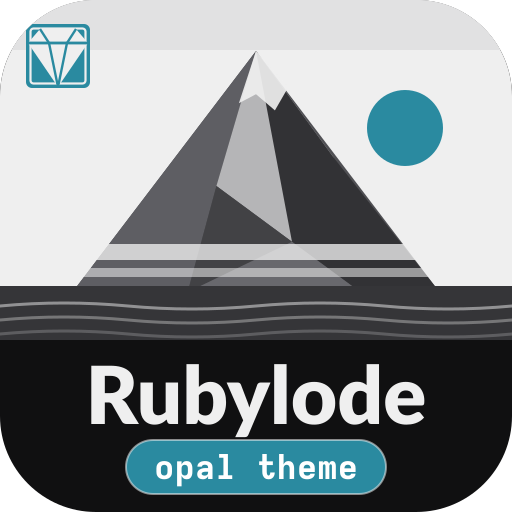
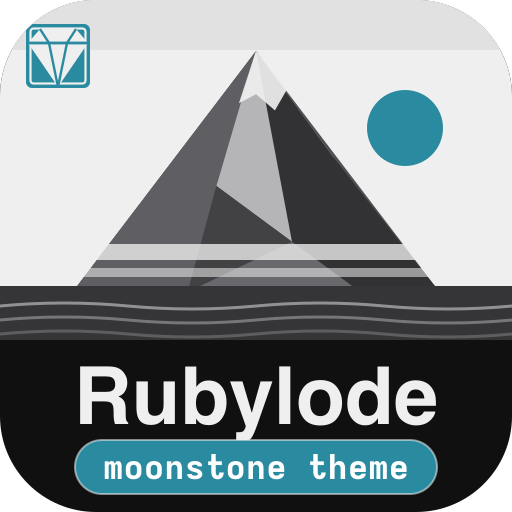
feat!: rename the theme from Opal to Moonstone
Redmine.org already lists a theme called Opale, so the two names clashed.
The theme folder is now moonstone and the release is moonstone-2.0.0.zip.
The look is unchanged.

Changed region(s): [[0.125, 0.6875, 0.875, 0.9688]]

diff --git a/moonstone/stylesheets/tokens.css b/moonstone/stylesheets/tokens.css
@@ -1,9 +1,9 @@
-/* Opal, a theme for Redmine 7
+/* Moonstone, a theme for Redmine 7
  * Copyright (C) 2026  Nick Gorbikoff
  * GNU General Public License, version 2 or later. See the LICENSE file.
  * Generated from the shared base of the Rubylode themes: a change made here is overwritten by the next build. */
 
-/* Opal's tokens, light values. The dark values of the same names are in dark.css. */
+/* Moonstone's tokens, light values. The dark values of the same names are in dark.css. */
 :root {
   /* Surfaces: a milky, cool off-white page with white panels on it. */
   --theme-page: #f4f6f8;
@@ -34,7 +34,7 @@
   --theme-accent-9: #0b3540;
   --theme-accent-1-rgb: 217, 238, 241;
 
-  /* The opal shimmer: a faint lilac and peach, used sparingly (the header, focus rings, the primary button). */
+  /* The moonstone shimmer: a faint lilac and peach, used sparingly (the header, focus rings, the primary button). */
   --theme-secondary: #b9a7e0;
   --theme-secondary-pale: #efeafa;
   --theme-tertiary: #f2b89c;
@@ -61,7 +61,7 @@
   --theme-header-line: rgba(27, 107, 128, 0.16);
   --theme-header-field-background: rgba(255, 255, 255, 0.72);
   --theme-header-field-border: #75828f;
-  --theme-mark-image: url("../images/opal-mark.svg");
+  --theme-mark-image: url("../images/moonstone-mark.svg");
 
   /* The project sidebar, in the sidebar layout only ("layout": "sidebar" in theme.json). */
   --theme-sidebar-width: 240px;

diff --git a/moonstone/stylesheets/application.css b/moonstone/stylesheets/application.css
@@ -1,4 +1,4 @@
-/* Opal, a theme for Redmine 7
+/* Moonstone, a theme for Redmine 7
  * Copyright (C) 2026  Nick Gorbikoff
  *
  * This program is free software; you can redistribute it and/or
@@ -16,7 +16,7 @@
  * Foundation, Inc., 51 Franklin Street, Fifth Floor, Boston, MA  02110-1301, USA. */
 
 /* Redmine loads a theme's application.css in place of its own, and its responsive.css in place of Redmine's phone rules.
- * Opal keeps both of Redmine's files and adds its own after them:
+ * Moonstone keeps both of Redmine's files and adds its own after them:
  *
  *   application.css    Redmine's stylesheet, then fonts.css (the bundled Noto Sans and Noto Sans Mono, from ../fonts), then
  *                      tokens.css (every colour, corner, font and size, and Redmine's own palette pointed at them)

diff --git a/moonstone/stylesheets/dark.css b/moonstone/stylesheets/dark.css
@@ -1,4 +1,4 @@
-/* Opal, a theme for Redmine 7
+/* Moonstone, a theme for Redmine 7
  * Copyright (C) 2026  Nick Gorbikoff
  * GNU General Public License, version 2 or later. See the LICENSE file.
  * Generated from the shared base of the Rubylode themes: a change made here is overwritten by the next build. */
@@ -10,7 +10,7 @@
     color-scheme: dark;
   }
 
-  /* Opal's tokens, dark values: a deep slate page, slightly lighter panels, light ink, the teal lifted so it reads on dark, and
+  /* Moonstone's tokens, dark values: a deep slate page, slightly lighter panels, light ink, the teal lifted so it reads on dark, and
    * the header wash in deep teal, plum and rose. A name not set here keeps its light value from tokens.css. */
   :root {
     --theme-page: #11171c;

diff --git a/moonstone/javascripts/theme.js b/moonstone/javascripts/theme.js
@@ -1,4 +1,4 @@
-/* Opal, a theme for Redmine 7
+/* Moonstone, a theme for Redmine 7
  * Copyright (C) 2026  Nick Gorbikoff
  * GNU General Public License, version 2 or later. See the LICENSE file.
  * Generated from the shared base of the Rubylode themes: a change made here is overwritten by the next build. */

diff --git a/moonstone/stylesheets/fonts.css b/moonstone/stylesheets/fonts.css
@@ -1,4 +1,4 @@
-/* Opal, a theme for Redmine 7
+/* Moonstone, a theme for Redmine 7
  * Copyright (C) 2026  Nick Gorbikoff
  * GNU General Public License, version 2 or later. See the LICENSE file.
  * Generated from the shared base of the Rubylode themes: a change made here is overwritten by the next build. */

diff --git a/moonstone/stylesheets/plugins.css b/moonstone/stylesheets/plugins.css
@@ -1,4 +1,4 @@
-/* Opal, a theme for Redmine 7
+/* Moonstone, a theme for Redmine 7
  * Copyright (C) 2026  Nick Gorbikoff
  * GNU General Public License, version 2 or later. See the LICENSE file.
  * Generated from the shared base of the Rubylode themes: a change made here is overwritten by the next build. */

diff --git a/moonstone/stylesheets/structure.css b/moonstone/stylesheets/structure.css
@@ -1,4 +1,4 @@
-/* Opal, a theme for Redmine 7
+/* Moonstone, a theme for Redmine 7
  * Copyright (C) 2026  Nick Gorbikoff
  * GNU General Public License, version 2 or later. See the LICENSE file.
  * Generated from the shared base of the Rubylode themes: a change made here is overwritten by the next build. */

diff --git a/moonstone/stylesheets/responsive.css b/moonstone/stylesheets/responsive.css
@@ -1,4 +1,4 @@
-/* Opal, a theme for Redmine 7: the phone rules and the theme's layers
+/* Moonstone, a theme for Redmine 7: the phone rules and the theme's layers
  * Copyright (C) 2026  Nick Gorbikoff
  *
  * This program is free software; you can redistribute it and/or

diff --git a/README.md b/README.md
@@ -1,6 +1,6 @@
-# Rubylode Opal for Redmine
+# Rubylode Moonstone for Redmine
 
-<p><img src="docs/thumbnail.png" alt="Rubylode Opal theme" width="160"></p>
+<p><img src="docs/thumbnail.png" alt="Rubylode Moonstone theme" width="160"></p>
 
 A light theme for Redmine 7 and up: white panels on an off-white page, a blue-teal primary colour, and coloured status and priority chips.
 
@@ -9,7 +9,7 @@ Redmine itself. The script only reads the page: it puts a status dot beside the 
 and gives the top bar a shadow once the page scrolls. Without it the theme still works. The dark set follows your system setting
 (see [Dark mode](#dark-mode)).
 
-![A walk through Rubylode Opal: the project, the issue list, an issue and the new issue form](docs/demo/walkthrough-light.gif)
+![A walk through Rubylode Moonstone: the project, the issue list, an issue and the new issue form](docs/demo/walkthrough-light.gif)
 
 | | |
 |---|---|
@@ -20,7 +20,7 @@ and gives the top bar a shadow once the page scrolls. Without it the theme still
 
 Dark mode:
 
-![A walk through Rubylode Opal in dark mode](docs/demo/walkthrough-dark.gif)
+![A walk through Rubylode Moonstone in dark mode](docs/demo/walkthrough-dark.gif)
 
 | | |
 |---|---|
@@ -47,7 +47,7 @@ The screenshots come from the demo Redmine in this repository; the people, proje
 
 ## What it looks like
 
-- A two-row header. The top bar has a teal-to-lilac-to-peach wash, the Opal mark, the global links, the search and project
+- A two-row header. The top bar has a teal-to-lilac-to-peach wash, the Moonstone mark, the global links, the search and project
   switcher as rounded fields, and your avatar. Below it, a white bar holds the project name, the project tabs (the current one
   underlined in the same wash) and the "+" menu.
 - A New issue button beside the search, when the Rubylode New issue button plugin is installed.
@@ -62,13 +62,13 @@ The screenshots come from the demo Redmine in this repository; the people, proje
 
 ## Install
 
-1. Download the zip attached to the latest release (the Releases page of this repository) and unzip it inside the `themes` folder of your Redmine, so that `themes/opal/stylesheets/application.css` exists. Or clone this repository and copy (or link) its `opal` folder into `themes/`.
+1. Download the zip attached to the latest release (the Releases page of this repository) and unzip it inside the `themes` folder of your Redmine, so that `themes/moonstone/stylesheets/application.css` exists. Or clone this repository and copy (or link) its `moonstone` folder into `themes/`.
 2. Restart Redmine.
-3. In Administration, Settings, Display, choose **Opal** as the theme and save.
+3. In Administration, Settings, Display, choose **Moonstone** as the theme and save.
 
 To go back, choose another theme on the same page. Nothing is written to the database apart from that setting.
 
-The theme folder holds the stylesheets, `javascripts/theme.js`, the mark (`images/opal-mark.svg`) and a favicon
+The theme folder holds the stylesheets, `javascripts/theme.js`, the mark (`images/moonstone-mark.svg`) and a favicon
 (`favicon/favicon.ico`, which Redmine links on every page while the theme is chosen). It ships no fonts: it uses the system's own.
 
 ## What is covered
@@ -83,8 +83,8 @@ Flash messages, tabs, the right-click menu, dropdowns, pagination, the text edit
 <!-- rubylode-plugins:start -->
 ## Rubylode plugins
 
-Opal styles the Rubylode plugins' blocks natively. Each plugin draws with its own CSS custom properties, and one section of the
-theme, `opal/stylesheets/plugins.css`, points them at Opal's tokens, so the blocks follow the theme in light and dark:
+Moonstone styles the Rubylode plugins' blocks natively. Each plugin draws with its own CSS custom properties, and one section of the
+theme, `moonstone/stylesheets/plugins.css`, points them at Moonstone's tokens, so the blocks follow the theme in light and dark:
 
 - [Rubylode Projects](https://github.com/rubylode/redmine-rubylode-projects) (`--rubylode-projects-*`): the overview cards and the projects list.
 - [Rubylode Home](https://github.com/rubylode/redmine-rubylode-home) (`--rubylode-home-*`): My page and the welcome page.
@@ -102,8 +102,8 @@ None of them is needed. Without a plugin its rules match nothing.
 
 ## Customising
 
-Every colour, corner, shadow, font and a few sizes are custom properties in `opal/stylesheets/tokens.css` (light values) and
-`opal/stylesheets/dark.css` (dark values). Change them there, or override them from a stylesheet of your own. The names
+Every colour, corner, shadow, font and a few sizes are custom properties in `moonstone/stylesheets/tokens.css` (light values) and
+`moonstone/stylesheets/dark.css` (dark values). Change them there, or override them from a stylesheet of your own. The names
 start with `--theme-` and are the same in every Rubylode theme. The main ones:
 
 | Token | What it is |
@@ -113,7 +113,7 @@ start with `--theme-` and are the same in every Rubylode theme. The main ones:
 | `--theme-ink`, `--theme-ink-soft`, `--theme-ink-muted` | text, secondary text, labels and notes |
 | `--theme-accent-0` to `--theme-accent-9` | the teal ramp; `--theme-link`, `--theme-primary` and Redmine's blue ramp point into it |
 | `--theme-secondary`, `--theme-tertiary` and their `-pale` twins | the lilac and peach shimmer, used in the header, the focus halo and the tab underline |
-| `--theme-primary-background`, `--theme-header-background` | the primary button and the top bar (gradients in Opal) |
+| `--theme-primary-background`, `--theme-header-background` | the primary button and the top bar (gradients in Moonstone) |
 | `--theme-status-new`, `-in-progress`, `-resolved`, `-feedback`, `-closed`, `-rejected` | status colours, by Redmine's default status ids 1 to 6 |
 | `--theme-success`, `--theme-warning`, `--theme-danger`, `--theme-danger-strong` | meaning colours (priority High, Urgent, Immediate) |
 | `--theme-radius-small`, `--theme-radius`, `--theme-radius-panel`, `--theme-radius-pill` | corners of fields, cards, panels and pills |
@@ -125,24 +125,24 @@ The rest (messages, avatars, diffs, the Gantt chart, the header heights, the ico
 comment each in `tokens.css`.
 
 Status and priority colours are matched by Redmine's default ids (statuses 1 New to 6 Rejected, priorities 1 Low to 5
-Immediate). If yours differ, change the ids in the "issue list" and "issue page" sections of `opal/stylesheets/structure.css`.
+Immediate). If yours differ, change the ids in the "issue list" and "issue page" sections of `moonstone/stylesheets/structure.css`.
 
 The labels "Parent" and "Ancestor" above an issue's subject are drawn by CSS, so they are in English only.
 
 ## Fonts
 
-Opal ships its own fonts, so text looks the same on every system and nothing is loaded from another site: Noto Sans for
-text and Noto Sans Mono for code, as woff2 files in `opal/fonts/` (latin and latin-ext). Both are under the SIL Open
+Moonstone ships its own fonts, so text looks the same on every system and nothing is loaded from another site: Noto Sans for
+text and Noto Sans Mono for code, as woff2 files in `moonstone/fonts/` (latin and latin-ext). Both are under the SIL Open
 Font License 1.1; the licence texts are in the same folder. A browser downloads a file only when a page uses it. To use other
-fonts, change `--theme-font` and `--theme-font-monospace` in `opal/stylesheets/tokens.css`. The size of running text is
+fonts, change `--theme-font` and `--theme-font-monospace` in `moonstone/stylesheets/tokens.css`. The size of running text is
 `--theme-font-size` (16px), and every other text size follows it.
 
 ## Dark mode
 
 Dark mode follows your system setting (`prefers-color-scheme`): a deep slate page, slightly lighter panels, a lighter teal, and
 the header wash in deep teal, plum and rose. Code blocks stay light, since
-Redmine's syntax colours are made for a light background. To keep Opal light-only, remove the line `@import url(dark.css);`
-from `opal/stylesheets/responsive.css`; every dark value is in that one file.
+Redmine's syntax colours are made for a light background. To keep Moonstone light-only, remove the line `@import url(dark.css);`
+from `moonstone/stylesheets/responsive.css`; every dark value is in that one file.
 
 ## Accessibility
 
@@ -189,7 +189,7 @@ files until it restarts.
 
 Every push starts a real Redmine from its Docker image (7.0.2 and the 7.0 line), loads every page of the theme in light and dark at desktop and phone width, and fails on console errors, failed requests, sideways scrolling and low text contrast. On GitHub that is `.github/workflows/check.yml`, on GitHub's own runners, and it also runs on pull requests. On a self-hosted Gitea it is `.gitea/workflows/check.yml`, which runs only on pushes to `main`, because that runner works on the host with Docker access and must only run code that is already merged.
 
-A tag such as `v1.0.0` runs the same check, builds `opal-<version>.zip` holding the theme folder, and attaches it to a release with the matching section of `CHANGELOG.md` as its notes (`release.yml` in the same folders). The tag needs a section for that version in the changelog. More on both, and on keeping the self-hosted runner safe, in [docs/ci.md](docs/ci.md).
+A tag such as `v1.0.0` runs the same check, builds `moonstone-<version>.zip` holding the theme folder, and attaches it to a release with the matching section of `CHANGELOG.md` as its notes (`release.yml` in the same folders). The tag needs a section for that version in the changelog. More on both, and on keeping the self-hosted runner safe, in [docs/ci.md](docs/ci.md).
 
 ## License
 

diff --git a/CHANGELOG.md b/CHANGELOG.md
@@ -2,6 +2,15 @@
 
 All notable changes to this theme. The format follows [Keep a Changelog](https://keepachangelog.com/en/1.1.0/).
 
+## [2.0.0] - 2026-11-03
+
+### Changed
+
+- The theme is renamed from Opal to Moonstone, because Redmine.org already lists a theme called Opale. The theme folder is now
+  `themes/moonstone` (it was `themes/opal`) and the release zip is `moonstone-<version>.zip`. The look is unchanged. If you
+  had Opal installed, remove `themes/opal`, unzip Moonstone into `themes`, and choose Moonstone in Administration, Settings,
+  Display. The repository moved to `rubylode/redmine-theme-moonstone`; the old address redirects.
+
 ## [1.1.3] - 2026-11-03
 
 ### Added

diff --git a/docs/ci.md b/docs/ci.md
@@ -4,7 +4,7 @@
 
 `.github/workflows/check.yml` runs on every push and pull request, on GitHub's own runners: it starts Redmine 7.0.2 and the
 7.0 line from the official Docker image, loads the demo data and runs the page check. `.github/workflows/release.yml` runs on
-a `v*` tag (or by hand, from a tag): the same check, then a zip of the `opal` folder attached to a GitHub release, with the
+a `v*` tag (or by hand, from a tag): the same check, then a zip of the `moonstone` folder attached to a GitHub release, with the
 matching section of `CHANGELOG.md` as its notes.
 
 ## Gitea

diff --git a/docs/accessibility.md b/docs/accessibility.md
@@ -1,6 +1,6 @@
 # Contrast
 
-Opal aims at WCAG 2.2 AA in light and dark: 4.5:1 for text (3:1 for large text), and 3:1 for the parts of a control that
+Moonstone aims at WCAG 2.2 AA in light and dark: 4.5:1 for text (3:1 for large text), and 3:1 for the parts of a control that
 identify it (field borders) and for focus indicators.
 
 ## How it is measured
